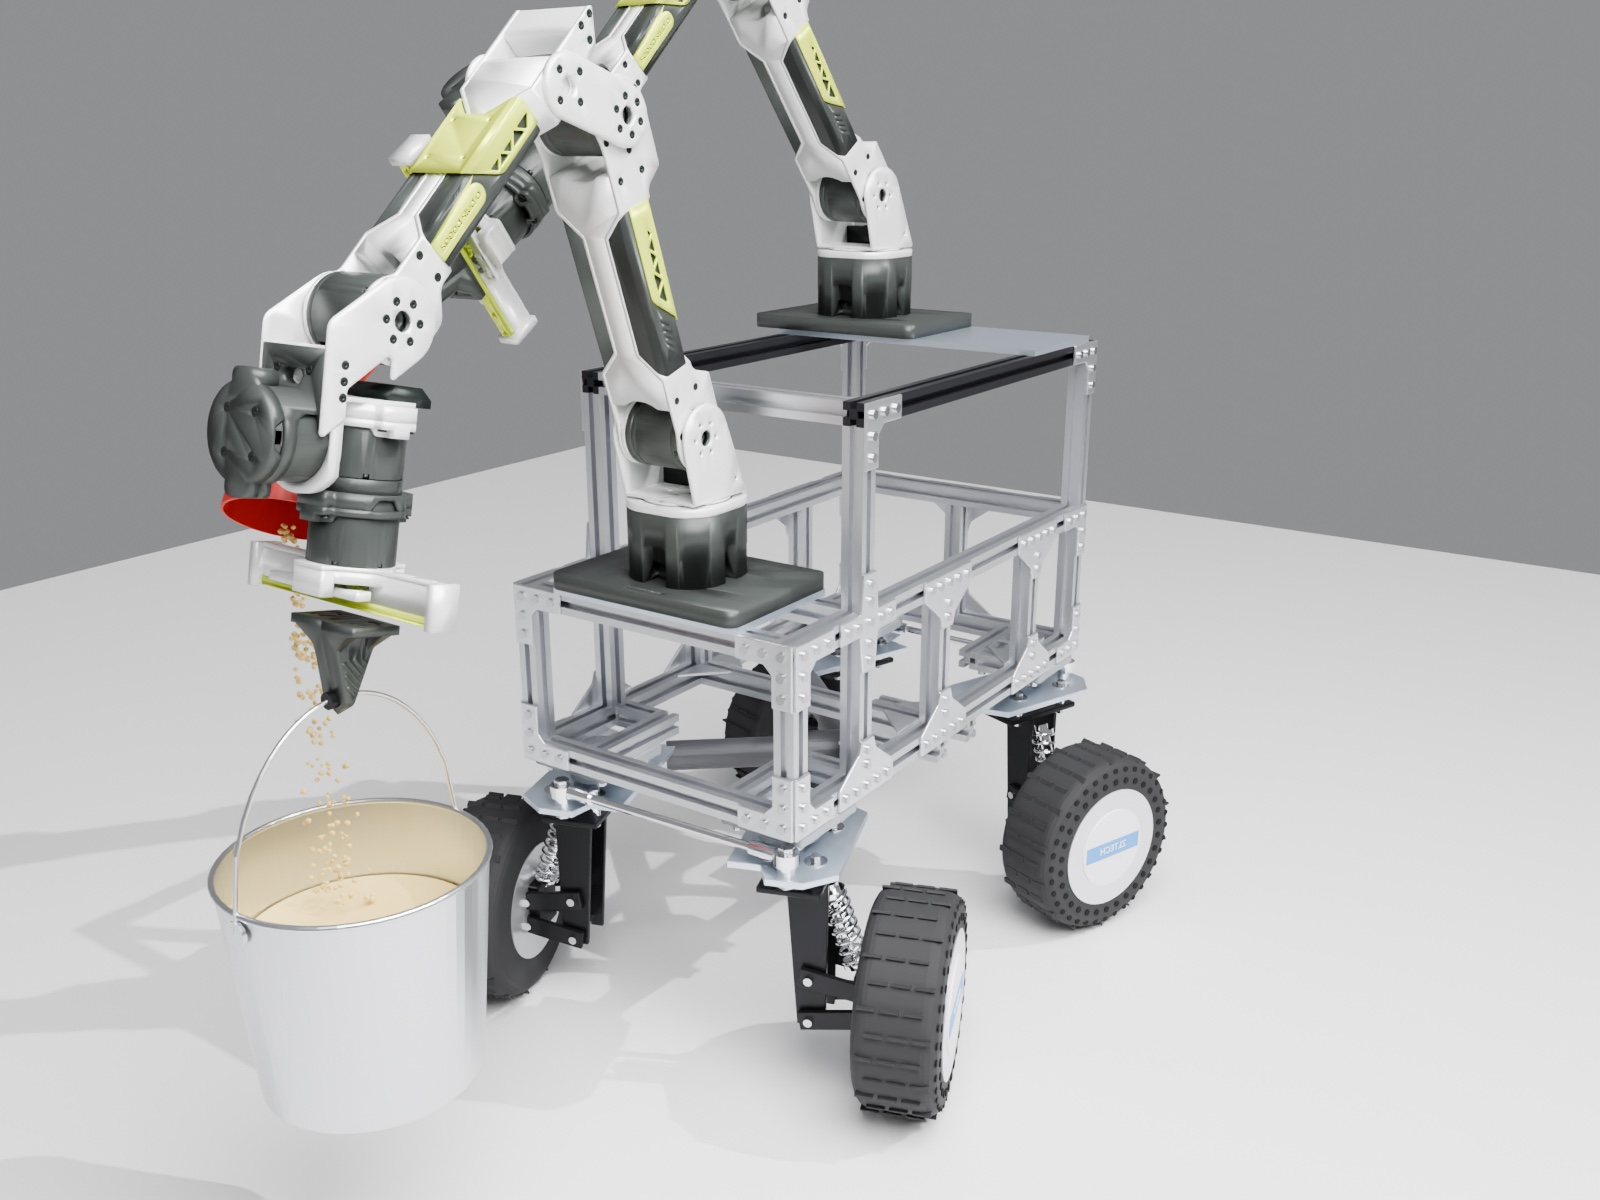
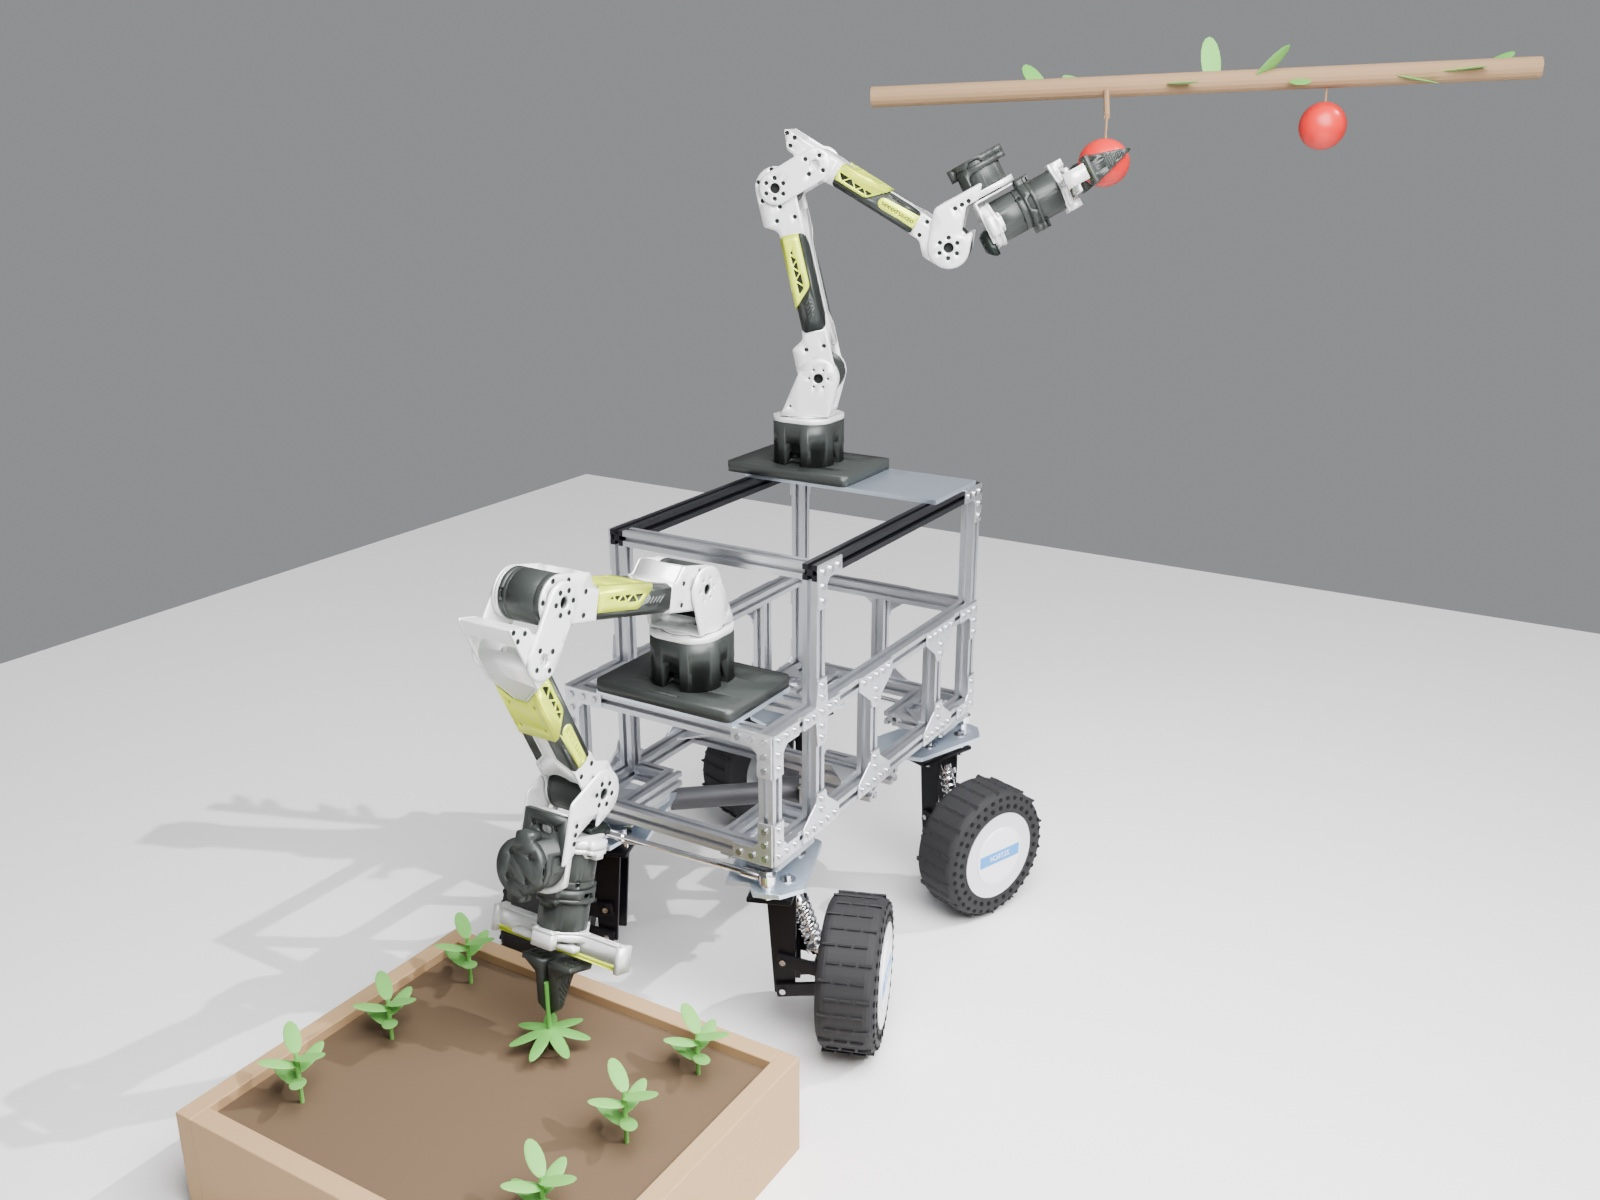
Two reBot arms working independently: front arm weeds a garden bed, back arm picks an apple

diff --git a/arm-rebot/render/render_cemani_with_arm.py b/arm-rebot/render/render_cemani_with_arm.py
@@ -1,6 +1,6 @@
 # Cemani, up-to-date plan: frame v3 sized to the real frame, 4-wheel steering (rear axle = the front axle mirrored, steering
-# the opposite way for tight turns), and two reBot B601-DM arms working together: arm 1 on its plate on the front low box,
-# arm 2 on a plate across the back of the tall box top, pouring a scoop of feed into the pail arm 1 is holding.
+# the opposite way for tight turns), and two reBot B601-DM arms, each on its own job: arm 1 on its plate on the front low box
+# pulling a weed from a low garden bed in front, arm 2 on a plate across the back of the tall box top picking an apple up high.
 # Run: Blender -b --factory-startup -P render_cemani_with_arm.py -- VIEW [j1 j2 j3 j4 j5 j6]   (VIEW = iso | side | front | top)
 # Needs Seeed's URDF + colored visual STLs in $REBOT_DIR (default /tmp/rebot-dl): ReBot_Arm_DM.urdf, meshes/visual/*.stl
 # (from github.com/Seeed-Projects/reBot-DevArm, Rebot_Arm_description/DM).
@@ -11,15 +11,15 @@ FRAME = os.path.join(HERE, "../../docs/rebuild-2026/frame-v3/model/cemani_frame_
 src = open(FRAME).read()
 argv = sys.argv[sys.argv.index("--") + 1:] if "--" in sys.argv else []
 VIEW = argv[0] if argv else "iso"
-POSE = [float(v) for v in argv[1:7]] if len(argv) >= 7 else [0.0, -1.9, -1.15, 0.6, 0.0, 0.0]
+POSE = [float(v) for v in argv[1:7]] if len(argv) >= 7 else [0.0, -2.913, -0.895, -0.752, 0.0, -3.14]
 
-# Arm 2 on the back of the tall box top. Pose solved offline (damped least squares on the URDF chain) so its fingertips sit at
-# ARM2_TIP with the gripper pointing along ARM2_DIR; ARM1_TIP is where arm 1's fingertips land with the default POSE.
+# Poses solved offline (damped least squares on Seeed's URDF chain): ARM1_TIP / ARM2_TIP are where each arm's fingertips land
+# with the gripper pointing along ARM1_DIR / ARM2_DIR. FING1 / FING2 = how far each finger is opened (m) around the weed / apple.
+ARM1_TIP, ARM1_DIR = (0.0, 520.0, -115.0), (0.0, 0.3, -0.95)
 ARM2_BX, ARM2_BY = 85.0, -200.0
-ARM2_POSE = [-0.111, -2.222, -1.434, -0.178, -0.091, 1.507]
-ARM2_TIP = (135.0, 400.0, 420.0)
-ARM2_DIR = (0.0, 0.82, -0.57)
-ARM1_TIP = (0.0, 597.0, 186.0)
+ARM2_POSE = [1.927, -1.339, -0.812, -1.033, -0.189, 3.068]
+ARM2_TIP, ARM2_DIR = (-300.0, -380.0, 800.0), (-0.74, -0.48, 0.48)
+FING1, FING2 = 0.004, 0.030
 
 def sub(a, b):
     global src
@@ -59,74 +59,83 @@ PLATE_T = 6.35
 PY = (YE + YT) / 2; PZ = ZM + 10
 box("arm_plate", 0, PY, PZ + PLATE_T/2, 200, 130, PLATE_T, NEWALU)
 _base = _M.Translation(_V((0, PY*S, (PZ + PLATE_T)*S))) @ _M.Rotation(math.radians(90), 4, "Z")
+_J = ["joint1", "joint2", "joint3", "joint4", "joint5", "joint6", "finger_left", "finger_right"]
 _rd = os.environ.get("REBOT_DIR", "/tmp/rebot-dl")
 urdf_arm.build(os.path.join(_rd, "ReBot_Arm_DM.urdf"), os.path.join(_rd, "meshes"), _base,
-               dict(zip(["joint1","joint2","joint3","joint4","joint5","joint6"], %r)))
+               dict(zip(_J, %r + [%r, -%r])))
 # ---- arm 2: second reBot on a plate across the two black top rails at the back of the tall box (plate TBD) ----
 BX, BY = %r, %r
 BZ = ZT + 10
 box("arm2_plate", 0, BY, BZ + PLATE_T/2, W, 130, PLATE_T, NEWALU)
 _base2 = _M.Translation(_V((BX*S, BY*S, (BZ + PLATE_T)*S))) @ _M.Rotation(math.radians(90), 4, "Z")
 urdf_arm.build(os.path.join(_rd, "ReBot_Arm_DM.urdf"), os.path.join(_rd, "meshes"), _base2,
-               dict(zip(["joint1","joint2","joint3","joint4","joint5","joint6"], %r)))
-# ---- the shared job: arm 1 holds a feed pail by its bail, arm 2 reaches over the body and pours a scoop of feed in ----
-GALV = mat("galv", (0.70, 0.72, 0.74), 1.0, 0.32)
-WOOD = mat("wood", (0.55, 0.38, 0.22), 0.0, 0.6)
-SCOOP = mat("scoop", (0.55, 0.03, 0.02), 0.0, 0.45)
-FEED = mat("feed", (0.78, 0.60, 0.26), 0.0, 0.85)
-def cup(name, base_c, axis, r0, r1, h, m, thick=1.5, bottom=True):
-    axis = _V(axis).normalized(); c = _V(base_c) + axis*(h/2)
-    bpy.ops.mesh.primitive_cone_add(vertices=64, radius1=r0*S, radius2=r1*S, depth=h*S, end_fill_type="NOTHING", location=c*S)
-    o = bpy.context.object; o.name = name; o.rotation_euler = axis.to_track_quat("Z", "Y").to_euler()
-    sd = o.modifiers.new("s", "SOLIDIFY"); sd.thickness = thick*S; o.data.materials.append(m)
-    if bottom:
-        d = cyl(name + "_bottom", *(_V(base_c) + axis*(thick/2)), r0, thick, m, verts=64)
-        d.rotation_euler = o.rotation_euler
-    return o
-# pail: fingers of arm 1 pinch the bail wire (bail runs front to back, across the finger travel)
-TIP1 = _V(%r)
-PR_, PH = 92.0, 165.0                       # ~1 gal galvanized pail: 184 mm across the top, 165 tall
-rim_z = TIP1.z - 108
-pc = _V((TIP1.x, TIP1.y, rim_z))
-cup("pail", pc - _V((0, 0, PH)), (0, 0, 1), 78, PR_, PH, GALV, 1.2)
-bpy.ops.mesh.primitive_torus_add(major_radius=PR_*S, minor_radius=2.2*S, location=pc*S); _t = bpy.context.object
-_t.name = "pail_rim"; _t.data.materials.append(GALV)
-for sy in (-1, 1):
-    cyl("pail_ear", pc.x, pc.y + sy*(PR_ + 2), rim_z - 12, 9, 3, GALV, "y", 24)
-_pts = []
-for i in range(25):
-    t = -1 + 2*i/24
-    _pts.append(_V((pc.x, pc.y + t*(PR_ + 3), rim_z - 12 + (TIP1.z + 12 - (rim_z - 12))*(1 - t*t)**0.5)))
-for p0, p1 in zip(_pts, _pts[1:]): rod("bail", p0, p1, 1.6, STEEL, 10)
-rod("bail_grip", _pts[11], _pts[13], 6, BLKANO, 20)
-# feed already in the pail
-cyl("pail_feed", pc.x, pc.y, rim_z - 60, 84, 4, FEED, verts=64)
-# scoop in arm 2: handle pinched in the fingers, sticking out along the approach, red scoop cup tipped to pour
-TIP2 = _V(%r); A2 = _V(%r).normalized()
-h0, h1 = TIP2 - A2*35, TIP2 + A2*120
-rod("scoop_handle", h0, h1, 11, SCOOP, 24)
-D2 = _V((-0.25, A2.y*0.6, -0.8)).normalized()
-cup("scoop_cup", h1 - D2*10, D2, 38, 46, 85, SCOOP, 2.0)
-import random as _r; _r.seed(4)
-lip = h1 + D2*80
-for i in range(220):
-    t = _r.random()
-    p = lip.lerp(_V((pc.x + 35, pc.y - 15, rim_z - 55)), t)
-    sp = 4 + 14*t
-    p += _V((_r.uniform(-sp, sp), _r.uniform(-sp, sp), _r.uniform(-3, 3)))
-    if t > 0.8 and (p.xy - pc.xy).length > PR_ - 8: continue
-    bpy.ops.mesh.primitive_ico_sphere_add(subdivisions=1, radius=_r.uniform(1.6, 2.6)*S, location=p*S)
-    g = bpy.context.object; g.name = "feed_grain"; g.data.materials.append(FEED)
-''' % (POSE, ARM2_BX, ARM2_BY, ARM2_POSE, ARM1_TIP, ARM2_TIP, ARM2_DIR)
+               dict(zip(_J, %r + [%r, -%r])))
+ARM1_TIP, ARM1_DIR, ARM2_TIP, ARM2_DIR = %r, %r, %r, %r
+APPLE_C = _V((-275.0, -365.0, 786.0))     # between arm 2's two finger pads (measured from the posed finger meshes)
+import random as _r; _r.seed(7)
+WOOD = mat("wood", (0.50, 0.34, 0.20), 0.0, 0.7)
+SOIL = mat("soil", (0.16, 0.11, 0.07), 0.0, 0.95)
+LEAF = mat("leaf", (0.16, 0.42, 0.10), 0.0, 0.55)
+LEAF2 = mat("leaf2", (0.22, 0.50, 0.14), 0.0, 0.55)
+BARK = mat("bark", (0.30, 0.20, 0.12), 0.0, 0.85)
+APPLE = mat("apple", (0.62, 0.05, 0.04), 0.0, 0.35)
+def leaf(c, d, L, w, m):
+    bpy.ops.mesh.primitive_uv_sphere_add(segments=16, ring_count=8, radius=1, location=_V(c)*S); o = bpy.context.object
+    o.scale = (w*S, L*S, 1.2*S); o.rotation_euler = _V(d).normalized().to_track_quat("Y", "Z").to_euler()
+    o.data.materials.append(m); o.name = "leaf"; return o
+# ---- arm 1's own job: pulling a weed out of a low raised garden bed in front of the robot ----
+GZ = BACK_BT - AXLE_DZ - WR
+BED_Y0, BED_Y1, BED_X, BED_H = 400, 820, 260, 125
+for sx_ in (-1, 1):
+    box("bed_side", sx_*(BED_X - 12), (BED_Y0 + BED_Y1)/2, GZ + BED_H/2, 24, BED_Y1 - BED_Y0, BED_H, WOOD, 1.5)
+for y_ in (BED_Y0 + 12, BED_Y1 - 12):
+    box("bed_end", 0, y_, GZ + BED_H/2, 2*BED_X - 48, 24, BED_H, WOOD, 1.5)
+SOIL_Z = GZ + BED_H - 12
+box("bed_soil", 0, (BED_Y0 + BED_Y1)/2, (GZ + SOIL_Z)/2, 2*BED_X - 48, BED_Y1 - BED_Y0 - 48, SOIL_Z - GZ, SOIL)
+def plant(x, y, h, n, m):
+    rod("stem", (x, y, SOIL_Z), (x, y, SOIL_Z + h), 2.5, m, 8)
+    for i in range(n):
+        ang = i*2.4; zz = SOIL_Z + h*(0.35 + 0.65*i/max(n - 1, 1)); d = _V((math.cos(ang), math.sin(ang), 0.35))
+        leaf(_V((x, y, zz)) + d*18, d, 22, 9, m)
+for i, (x, y) in enumerate([(-170, 470), (-170, 600), (-170, 730), (170, 470), (170, 600), (170, 730)]):
+    plant(x, y, 55 + 10*(i %% 2), 6, LEAF2)
+T1 = _V(ARM1_TIP)
+wz0 = SOIL_Z + 22                          # weed already pulled up ~22 mm, roots showing
+rod("weed_stem", (T1.x, T1.y, wz0), (T1.x, T1.y, T1.z + 40), 3.0, LEAF, 10)   # flower stalk, gripped between the fingers
+for k in range(7):                          # dandelion-style rosette hanging below the fingertips
+    a_ = k*0.9; d = _V((math.cos(a_), math.sin(a_), -0.25)); leaf(_V((T1.x, T1.y, wz0 + 6)) + d*22, d, 26, 8, LEAF)
+for k in range(7):
+    a_ = k*0.9; rod("weed_root", (T1.x, T1.y, wz0), (T1.x + 14*math.cos(a_), T1.y + 14*math.sin(a_), SOIL_Z - 4), 0.9, BARK, 6)
+bpy.ops.mesh.primitive_uv_sphere_add(radius=18*S, location=(T1.x*S, T1.y*S, (SOIL_Z + 1)*S)); _h = bpy.context.object
+_h.scale = (1, 1, 0.25); _h.data.materials.append(SOIL); _h.name = "weed_hole_soil"
+# ---- arm 2's own job: picking an apple off a branch up high, off the back left corner ----
+T2, D2 = _V(ARM2_TIP), _V(ARM2_DIR).normalized()
+ac = APPLE_C
+bpy.ops.mesh.primitive_uv_sphere_add(segments=32, ring_count=16, radius=34*S, location=ac*S); _a = bpy.context.object
+_a.scale = (1, 1, 0.92); _a.data.materials.append(APPLE); _a.name = "apple"; bpy.ops.object.shade_smooth()
+st = ac + _V((0, 0, 30))
+rod("apple_stem", st, st + _V((0, 0, 30)), 1.6, BARK, 8)
+br0, br1 = _V((-760, -640, 905)), _V((60, -330, 870))
+rod("branch", br0, br1, 14, BARK, 16)
+_bd = (br1 - br0).normalized(); _bp = br0 + _bd*(st + _V((0, 0, 28)) - br0).dot(_bd)
+rod("twig", st + _V((0, 0, 28)), _bp, 4, BARK, 8)
+for k in range(14):
+    t = 0.08 + 0.065*k; c = br0.lerp(br1, t); d = _V((_r.uniform(-1, 1), _r.uniform(-1, 1), _r.uniform(-0.2, 0.6)))
+    leaf(c + d.normalized()*30, d, 34, 14, LEAF2 if k %% 2 else LEAF)
+_p2 = br0.lerp(br1, 0.3)
+bpy.ops.mesh.primitive_uv_sphere_add(segments=32, ring_count=16, radius=31*S, location=(_p2 + _V((0, 0, -62)))*S)
+_b = bpy.context.object; _b.data.materials.append(APPLE); _b.name = "apple2"; bpy.ops.object.shade_smooth()
+rod("apple2_stem", _p2 + _V((0, 0, -33)), _p2, 1.6, BARK, 8)
+''' % (POSE, FING1, FING1, ARM2_BX, ARM2_BY, ARM2_POSE, FING2, FING2, ARM1_TIP, ARM1_DIR, ARM2_TIP, ARM2_DIR)
 sub("# Front-only for now", EXTRA + "\n# Front-only for now")
 sub('OUT = "/tmp/cemani/render3"', 'OUT = "/tmp/cemani/render_arm"')
-# cameras: pulled back to fit the arm
+# cameras: pulled back to fit both arms and their jobs
 sub('look((-0.95, 0.18, 0.52), (0.0, 0.0, 0.03)); cam.data.lens = 30', 'look((-1.45, 0.62, 1.00), (0.0, 0.05, 0.22)); cam.data.lens = 30')
 sub('cam.data.ortho_scale = 1.0; look((-2.0, 0, 0.045), (0, 0, 0.045)); res = (1500, 1000)',
-    'cam.data.ortho_scale = 1.55; look((-2.0, 0.12, 0.27), (0, 0.12, 0.27)); res = (1500, 1150)')
-sub('cam.data.ortho_scale = 0.78; cam.location = (0, 0.0, 2)', 'cam.data.ortho_scale = 1.3; cam.location = (0, 0.2, 2)')
+    'cam.data.ortho_scale = 1.75; look((-2.0, 0.08, 0.33), (0, 0.08, 0.33)); res = (1500, 1150)')
+sub('cam.data.ortho_scale = 0.78; cam.location = (0, 0.0, 2)', 'cam.data.ortho_scale = 1.45; cam.location = (-0.12, 0.1, 2)')
 sub('elif VIEW == "corner":', '''elif VIEW == "front":
-    look((-0.75, 1.15, 0.55), (0.0, 0.05, 0.12)); cam.data.lens = 32
+    look((-0.95, 1.55, 0.85), (-0.05, 0.05, 0.25)); cam.data.lens = 32
 elif VIEW == "corner":''')
 sys.argv = [sys.argv[0], "--", VIEW]
 exec(compile(src, FRAME, "exec"), {"__name__": "__main__", "__file__": FRAME})

diff --git a/arm-rebot/README.md b/arm-rebot/README.md
@@ -1,8 +1,8 @@
 # Two reBot B601-DM arms on Cemani (plan, not bought yet)
 
 Arm 1 sits on the front low box (unchanged, plate below). Arm 2 sits on the back of the tall box top, across the two black
-top rails (its plate is TBD). They work as a pair: arm 1 holds or grabs low and out front, arm 2 reaches forward over the body
-to help.
+top rails (its plate is TBD). Each arm does its own job on its own: arm 1 works low and out front (weeding, picking things up near the
+ground), arm 2 works up high off the back and sides (picking fruit, reaching shelves).
 
 Arm: Seeed reBot Arm B601-DM (open source, github.com/Seeed-Projects/reBot-DevArm). 6 joints + gripper, Damiao motors,
 4.7 kg, 1.5 kg rated payload, 767 mm reach with gripper, 24 V (runs off Cemani's 24 V LiFePO4 on its own breaker),
@@ -29,9 +29,9 @@ Tip check (model numbers, arm 1 alone): arm + 1.5 kg at full forward reach is ab
 
 ## What it will look like (plan as of 11/18/2026)
 4-wheel steering (rear axle = front axle mirrored, turning the opposite way for tight turns), the frame sized to the real
-robot, arm 1 on its plate on the front low box holding a feed pail, and arm 2 on the back of the tall box reaching over the
-body to pour a scoop of feed into it. Made by `render/render_cemani_with_arm.py` from the frame v3 model and
-Seeed's own arm model; arm 2's pose was solved from the same URDF so its gripper lands over the pail.
+robot, arm 1 on its plate on the front low box pulling a weed from a low garden bed, and arm 2 on the back of the tall box
+picking an apple off a branch up high, each on its own job. Made by `render/render_cemani_with_arm.py` from the frame v3 model and
+Seeed's own arm model; both poses were solved from the same URDF so the grippers land on the weed and the apple.
 
 ![Cemani with 4-wheel steering and two reBot arms](renders/cemani-4ws-arm-iso.jpg)
 

diff --git a/README.md b/README.md
@@ -28,7 +28,7 @@ A 1kW, four-hub-motor tank robot for a homestead, with its own firmware, a WebSo
 
 ---
 
-![Cemani plan: 4-wheel steering and two reBot arms working together](arm-rebot/renders/cemani-4ws-arm-iso.jpg)
+![Cemani plan: 4-wheel steering and two reBot arms, each doing its own job](arm-rebot/renders/cemani-4ws-arm-iso.jpg)
 
 ---
 
